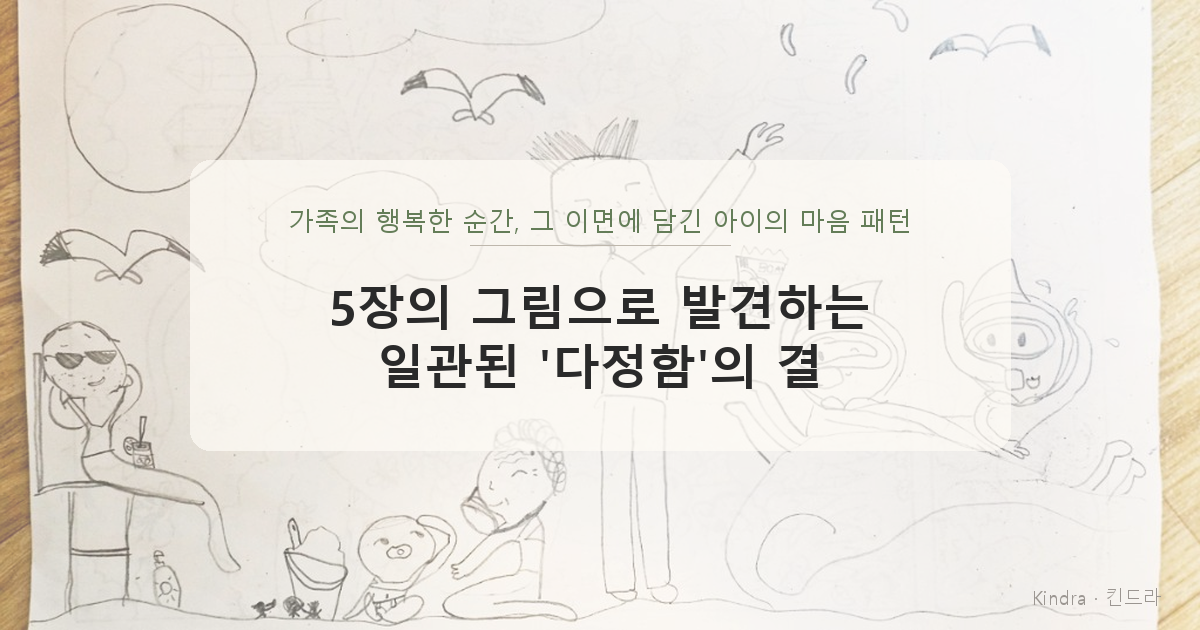
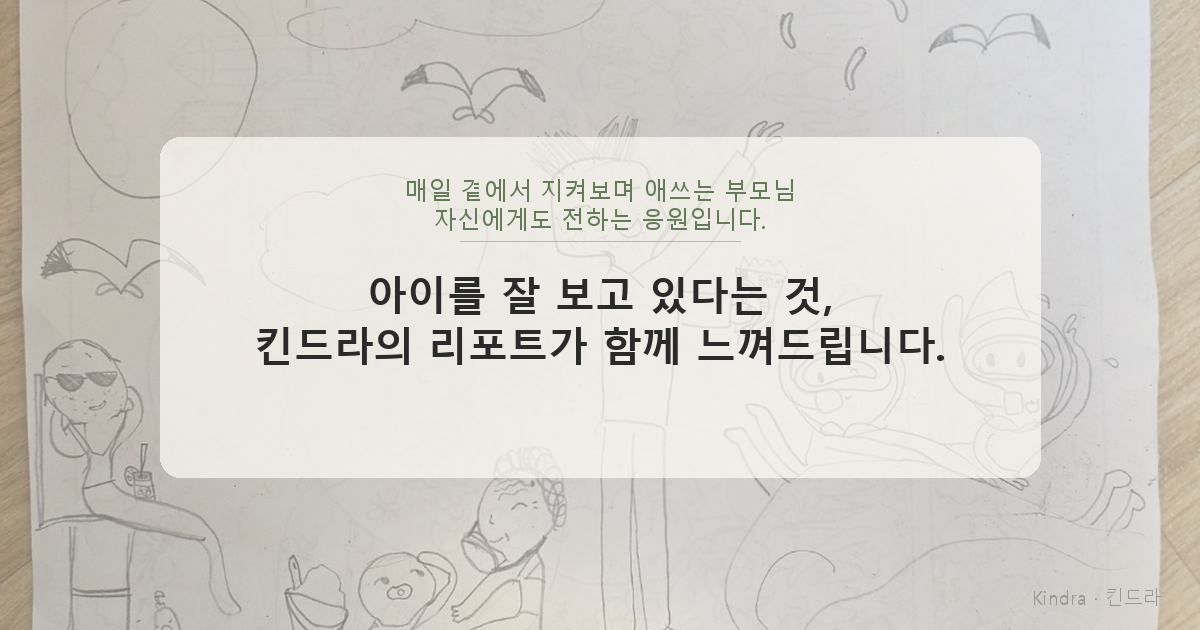
chore: OG 이미지 카피 변경 (부모 응원·리포트 메시지)
- 상단: 매일 곁에서 지켜보며 애쓰는 부모님…
- 하단: 아이를 잘 보고 있다는 것…
- scripts/make_og_image.py 추가 (beach-scene 배경 기준 재생성)

Made-with: Cursor

diff --git a/scripts/make_og_image.py b/scripts/make_og_image.py
@@ -1,0 +1,111 @@
+"""
+킨드라 OG 이미지 생성 → public/og-image.png (1200×630)
+배경: public/gallery/beach-scene.png
+"""
+from PIL import Image, ImageDraw, ImageFont
+import os
+
+BASE = os.path.join(os.path.dirname(__file__), "..", "public")
+SRC = os.path.join(BASE, "gallery", "beach-scene.png")
+DST = os.path.join(BASE, "og-image.png")
+
+W, H = 1200, 630
+
+FONT_REG = r"C:\Windows\Fonts\malgun.ttf"
+FONT_BOLD = r"C:\Windows\Fonts\malgunbd.ttf"
+
+CREAM = (255, 249, 242)
+SAGE = (100, 125, 88)
+CHARCOAL = (42, 42, 42)
+LOGO_GRAY = (155, 150, 145)
+PANEL_FILL = (255, 252, 246, 175)
+
+# 상단 / 하단 카피 (2줄씩 가독성 위해 줄바꿈)
+TOP_LINES = [
+    "매일 곁에서 지켜보며 애쓰는 부모님",
+    "자신에게도 전하는 응원입니다.",
+]
+MAIN_LINES = [
+    "아이를 잘 보고 있다는 것,",
+    "킨드라의 리포트가 함께 느껴드립니다.",
+]
+
+
+def f(path, size):
+    return ImageFont.truetype(path, size)
+
+
+def main():
+    if not os.path.isfile(SRC):
+        raise SystemExit(f"Missing background: {SRC}")
+
+    img = Image.open(SRC).convert("RGB")
+    iw, ih = img.size
+
+    if iw / ih > W / H:
+        new_w = int(ih * W / H)
+        off = (iw - new_w) // 2
+        img = img.crop((off, 0, off + new_w, ih))
+    else:
+        new_h = int(iw * H / W)
+        off = (ih - new_h) // 2
+        img = img.crop((0, off, iw, off + new_h))
+
+    img = img.resize((W, H), Image.LANCZOS)
+    warm = Image.new("RGB", (W, H), CREAM)
+    img = Image.blend(img, warm, 0.38)
+
+    overlay = Image.new("RGBA", (W, H), (0, 0, 0, 0))
+    od = ImageDraw.Draw(overlay)
+    panel_w, panel_h = 880, 340
+    px = (W - panel_w) // 2
+    py = (H - panel_h) // 2 - 8
+    r = 20
+    od.rounded_rectangle([px, py, px + panel_w, py + panel_h], radius=r, fill=PANEL_FILL)
+    img = img.convert("RGBA")
+    img = Image.alpha_composite(img, overlay)
+    img = img.convert("RGB")
+    draw = ImageDraw.Draw(img)
+
+    f_sub = f(FONT_REG, 24)
+    f_main = f(FONT_BOLD, 40)
+
+    # 상단 카피 (세이지)
+    y = py + 36
+    for line in TOP_LINES:
+        bb = draw.textbbox((0, 0), line, font=f_sub)
+        tw = bb[2] - bb[0]
+        draw.text(((W - tw) // 2, y), line, font=f_sub, fill=SAGE)
+        y += (bb[3] - bb[1]) + 6
+
+    # 구분선
+    line_y = y + 10
+    line_w = 280
+    draw.line(
+        [(W // 2 - line_w // 2, line_y), (W // 2 + line_w // 2, line_y)],
+        fill=(190, 183, 172),
+        width=1,
+    )
+
+    # 하단 카피 (메인, 굵게)
+    y = line_y + 26
+    for line in MAIN_LINES:
+        bb = draw.textbbox((0, 0), line, font=f_main)
+        tw = bb[2] - bb[0]
+        draw.text(((W - tw) // 2, y), line, font=f_main, fill=CHARCOAL)
+        y += (bb[3] - bb[1]) + 10
+
+    # 로고
+    f_logo = f(FONT_REG, 19)
+    logo_text = "Kindra · 킨드라"
+    bb_l = draw.textbbox((0, 0), logo_text, font=f_logo)
+    lw = bb_l[2] - bb_l[0]
+    lh = bb_l[3] - bb_l[1]
+    draw.text((W - lw - 38, H - lh - 28), logo_text, font=f_logo, fill=LOGO_GRAY)
+
+    img.save(DST, format="PNG", optimize=True)
+    print("saved:", DST)
+
+
+if __name__ == "__main__":
+    main()
